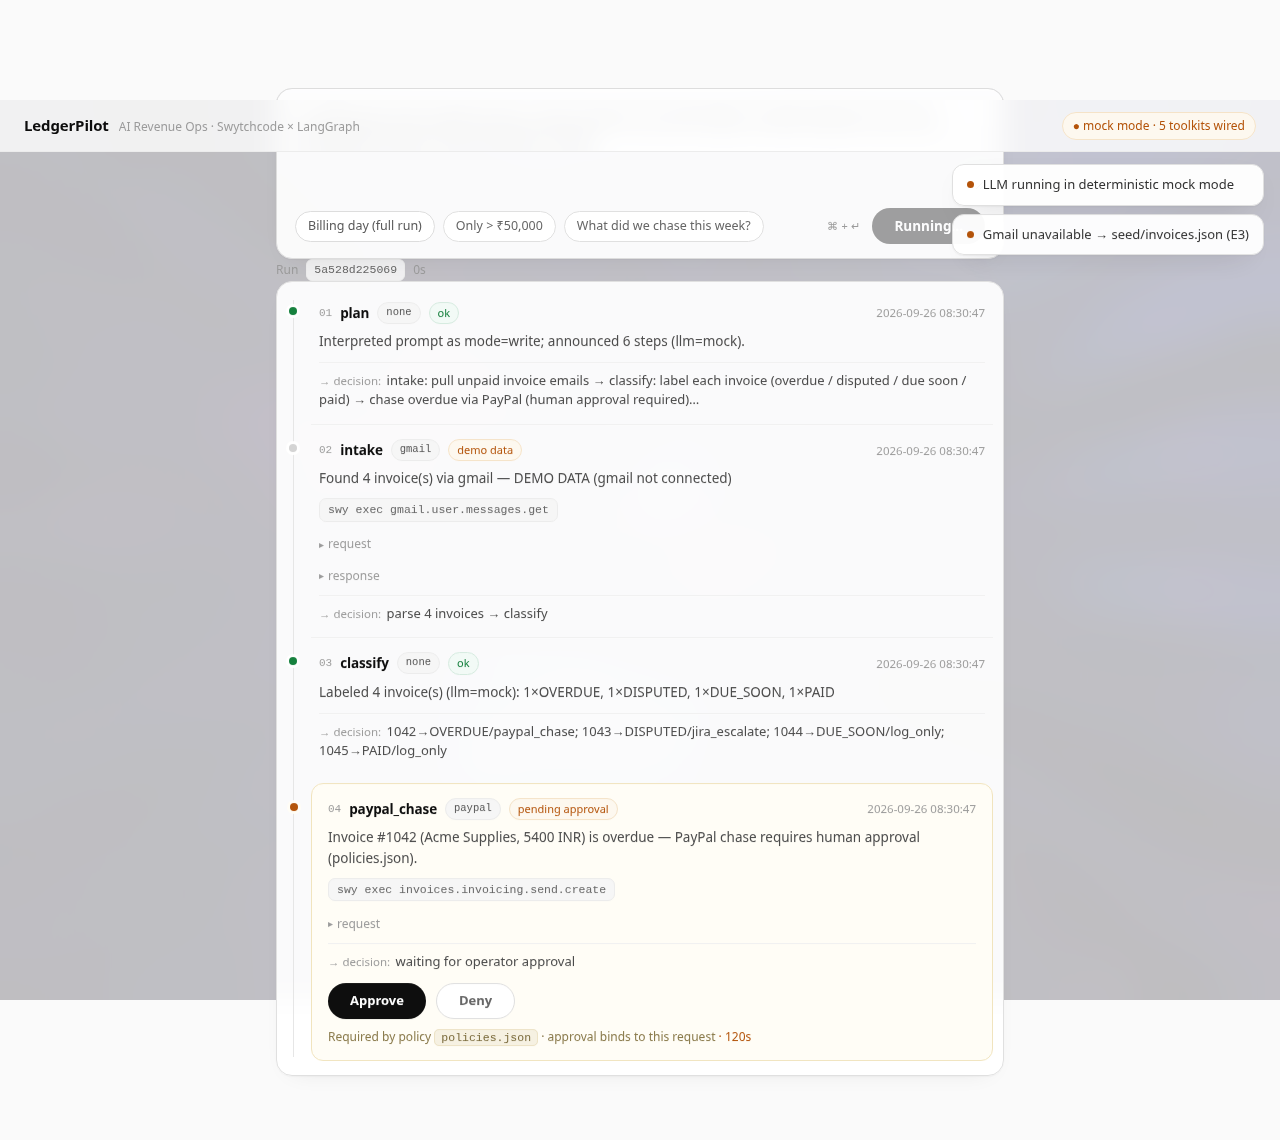
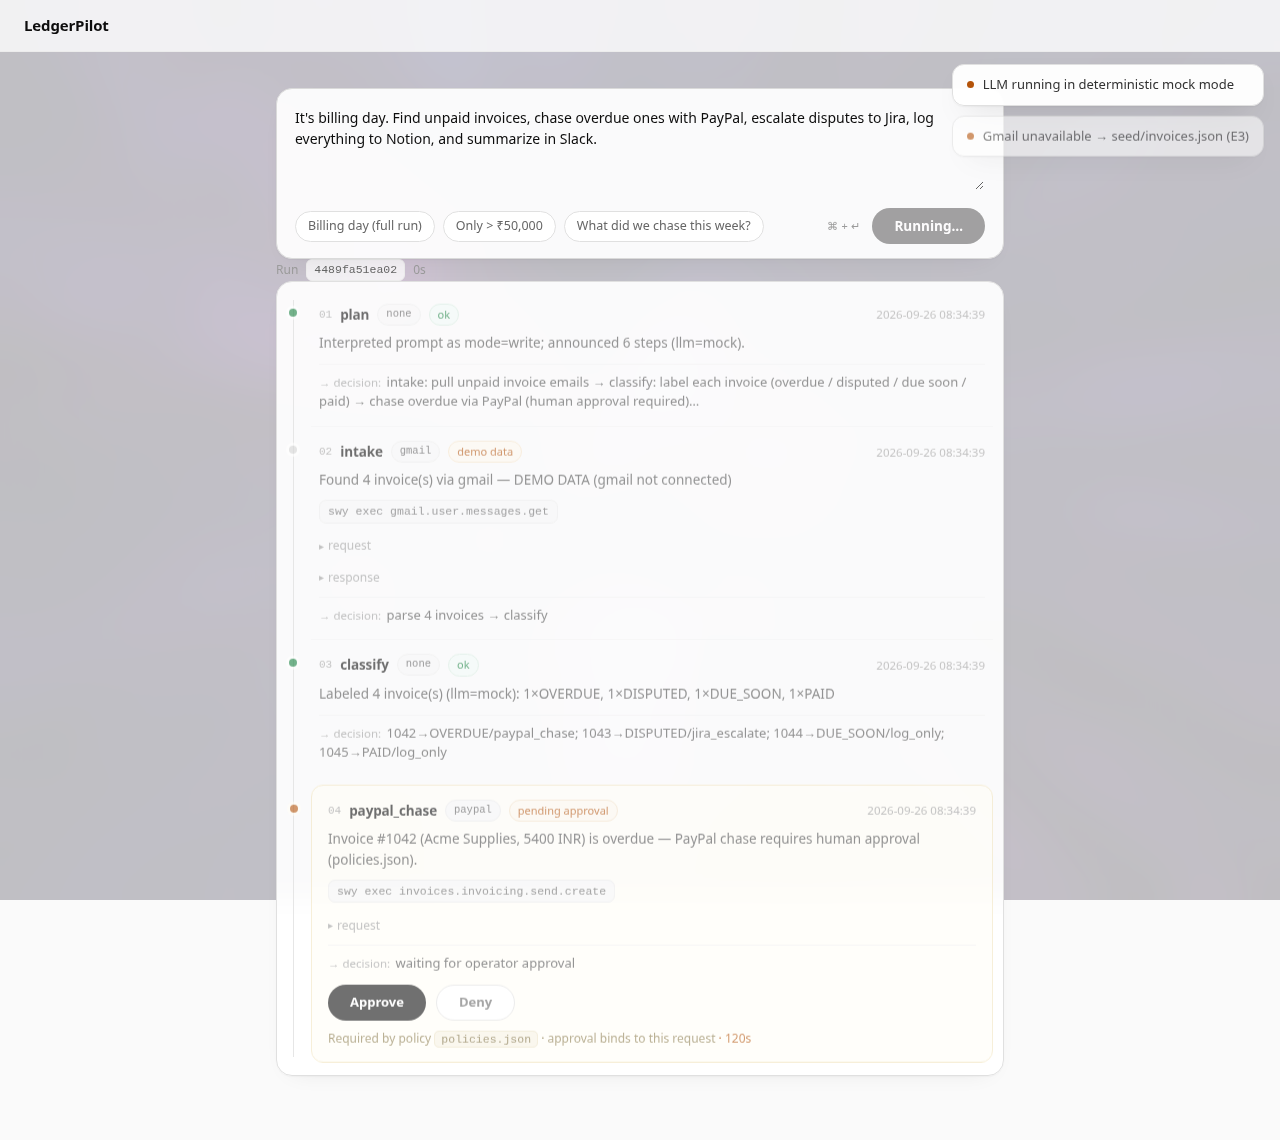
UI: clean header bar by removing subtitle and status pill

diff --git a/ui/index.html b/ui/index.html
@@ -268,9 +268,7 @@ pre{
 <header>
   <div class="brand">
     <h1>LedgerPilot</h1>
-    <span class="sub">AI Revenue Ops · Swytchcode × LangGraph</span>
   </div>
-  <div id="statusPill">checking…</div>
 </header>
 
 <div id="banner">
@@ -539,11 +537,16 @@ function retryStream(){ hideBanner(); if(runId && running) startStream(); }
 
 fetch('/healthz').then(r=>r.json()).then(h=>{
   const p = document.getElementById('statusPill');
-  const n = (h.toolkits||[]).length;
-  if(h.swx_mode === 'live' && n){ p.textContent = `● ${n} toolkits connected`; p.className='ok'; }
-  else { p.textContent = `● mock mode · ${n} toolkits wired`; p.className='warn'; }
+  if(p){
+    const n = (h.toolkits||[]).length;
+    if(h.swx_mode === 'live' && n){ p.textContent = `● ${n} toolkits connected`; p.className='ok'; }
+    else { p.textContent = `● mock mode · ${n} toolkits wired`; p.className='warn'; }
+  }
   if(h.llm === 'mock') toast('LLM running in deterministic mock mode', 'warn');
-}).catch(()=>{ const p=document.getElementById('statusPill'); p.textContent='● server offline'; p.className='warn'; });
+}).catch(()=>{
+  const p = document.getElementById('statusPill');
+  if(p){ p.textContent='● server offline'; p.className='warn'; }
+});
 
 document.getElementById('prompt').addEventListener('keydown', e=>{
   if((e.metaKey||e.ctrlKey) && e.key==='Enter') run();

diff --git a/scripts/ui_demo.py b/scripts/ui_demo.py
@@ -91,8 +91,6 @@ def run_browser() -> int:
         # 1 — load
         page.goto(BASE, wait_until="networkidle")
         check(page.locator("header h1").inner_text() == "LedgerPilot", "header renders")
-        pill = page.locator("#statusPill").inner_text()
-        check("toolkits" in pill, f"status pill: {pill}")
         check(page.locator("#empty").is_visible(), "empty state visible")
         page.screenshot(path=str(SHOTS / "01-prompt.png"))
 
